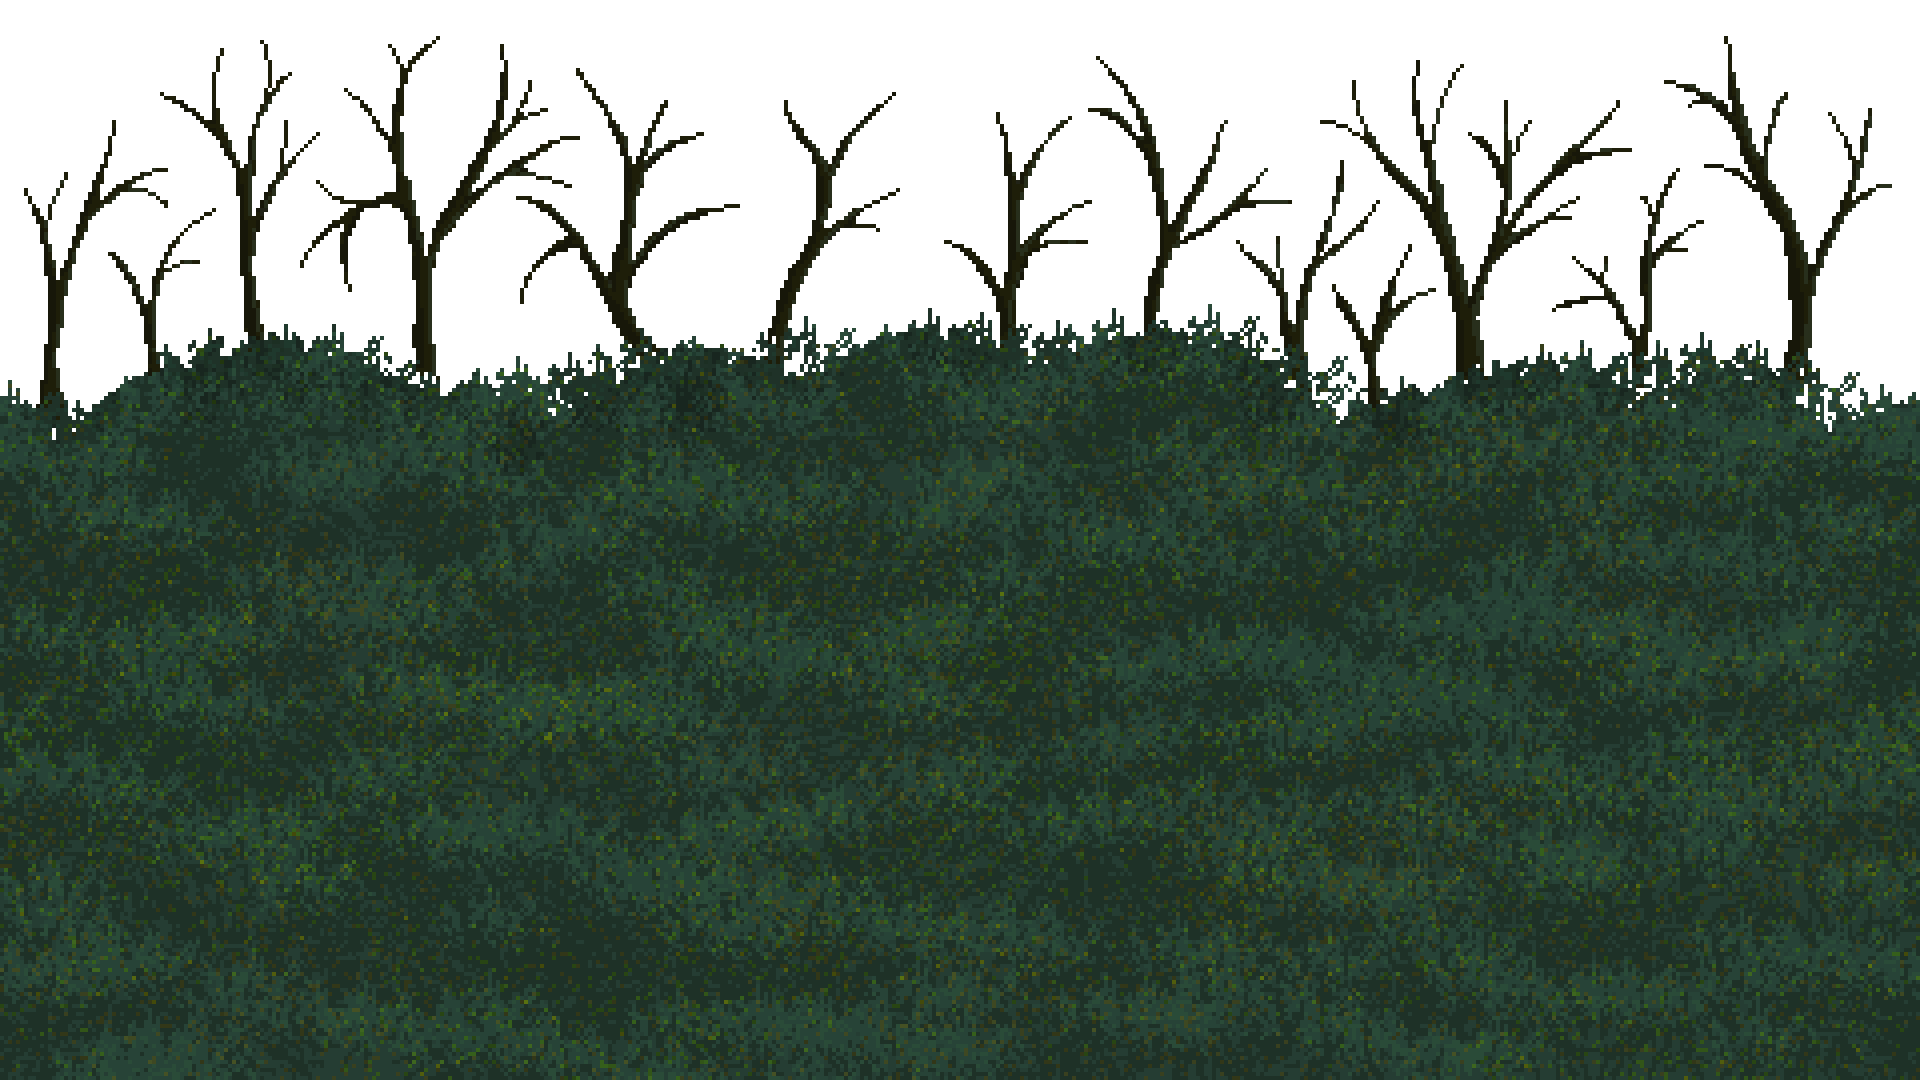
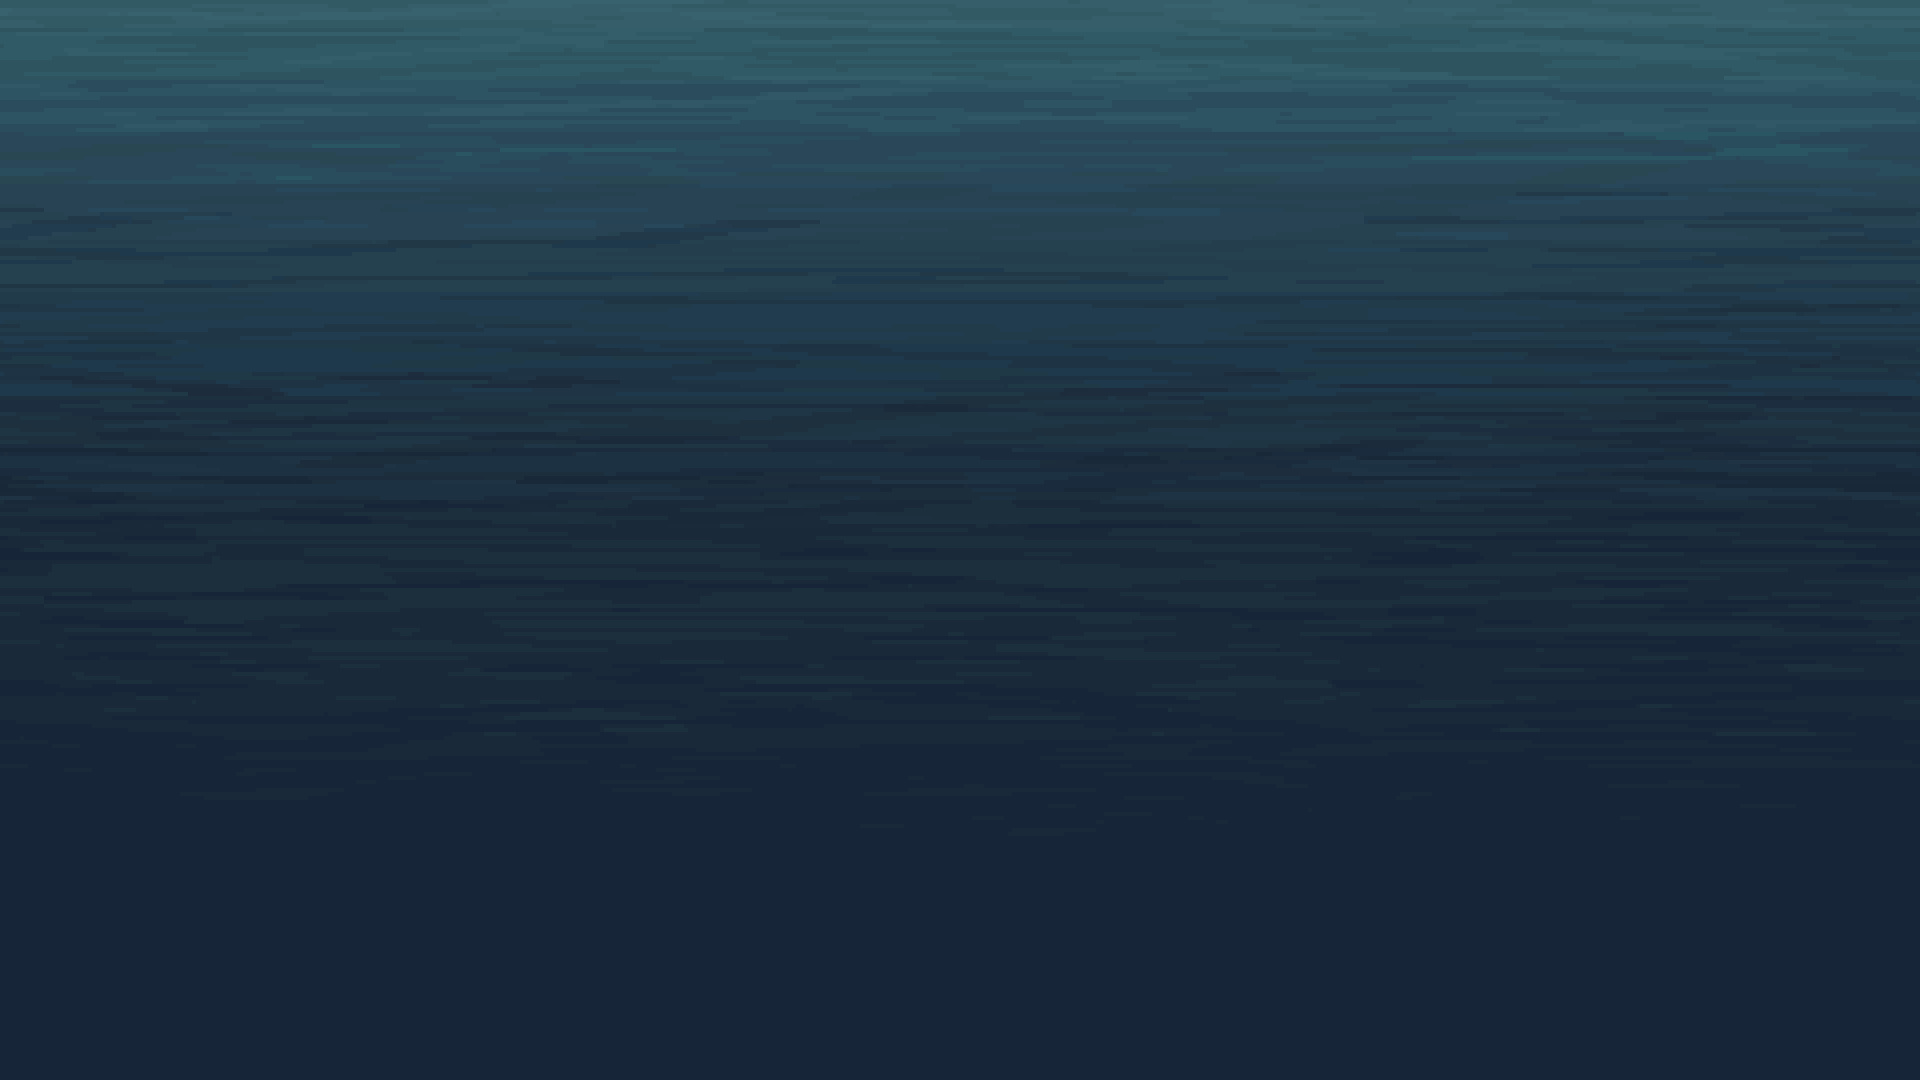
Changing the name of 2 files

diff --git a/code/entityFactory.py b/code/entityFactory.py
@@ -4,11 +4,11 @@ from code.background import Background
 
 class EntityFactory:
 
-    @staticmethod
     def get_entity(entity_name: str, position=(0,0)):
         match entity_name:
             case 'Level1bg':
                 list_bg = []
                 for i in range(2):
                     list_bg.append(Background(f'Level1bg{i}', (0, 0)))
-                return list_bg
+                    return list_bg
+

diff --git a/code/game.py b/code/game.py
@@ -21,6 +21,7 @@ class Game:
             if menu_return == MENU_OPTION[0]: # Level 1
                 level = Level(self.window, 'Level1', menu_return)
                 level_return = level.run()
+
             elif menu_return == MENU_OPTION[2]:
                 pygame.quit() # Close window
                 quit() # End pygame

diff --git a/code/level.py b/code/level.py
@@ -11,7 +11,7 @@ class Level:
         self.window = window
         self.name = name
         self.game_start = game_start
-        self.entity_list = list[Entity] = []
+        self.entity_list: list[Entity] = []
         self.entity_list.extend(EntityFactory.get_entity('Level1bg'))
 
     def run(self):
